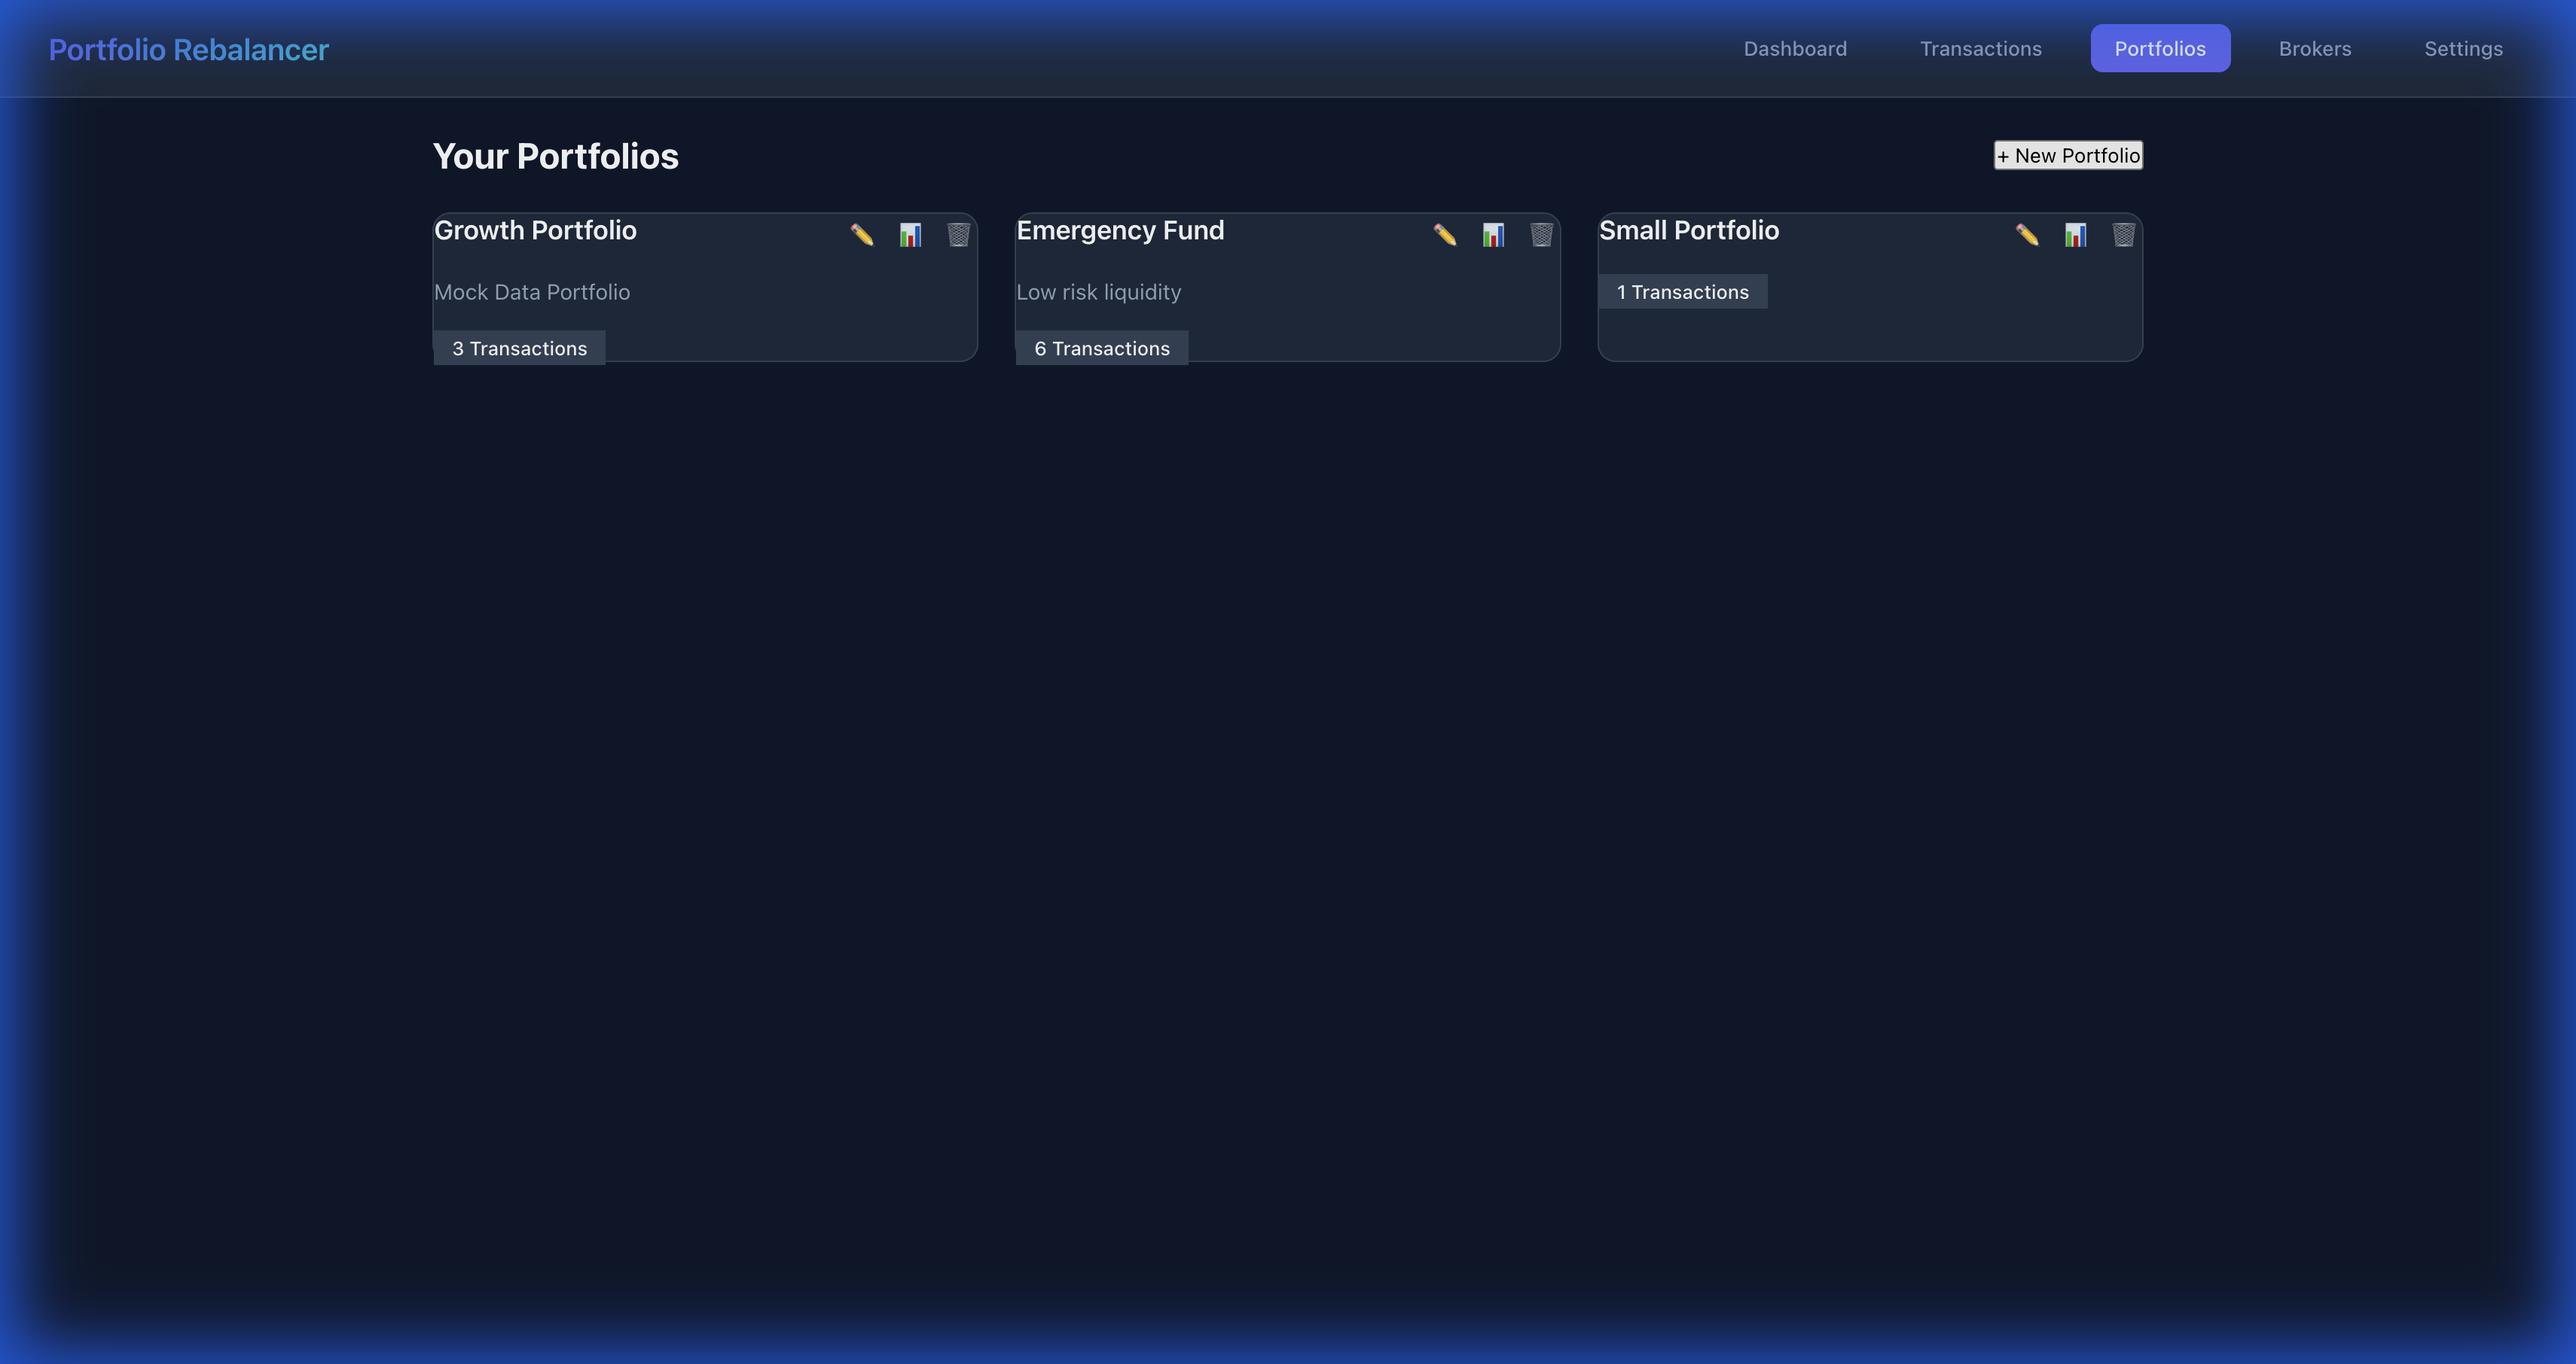
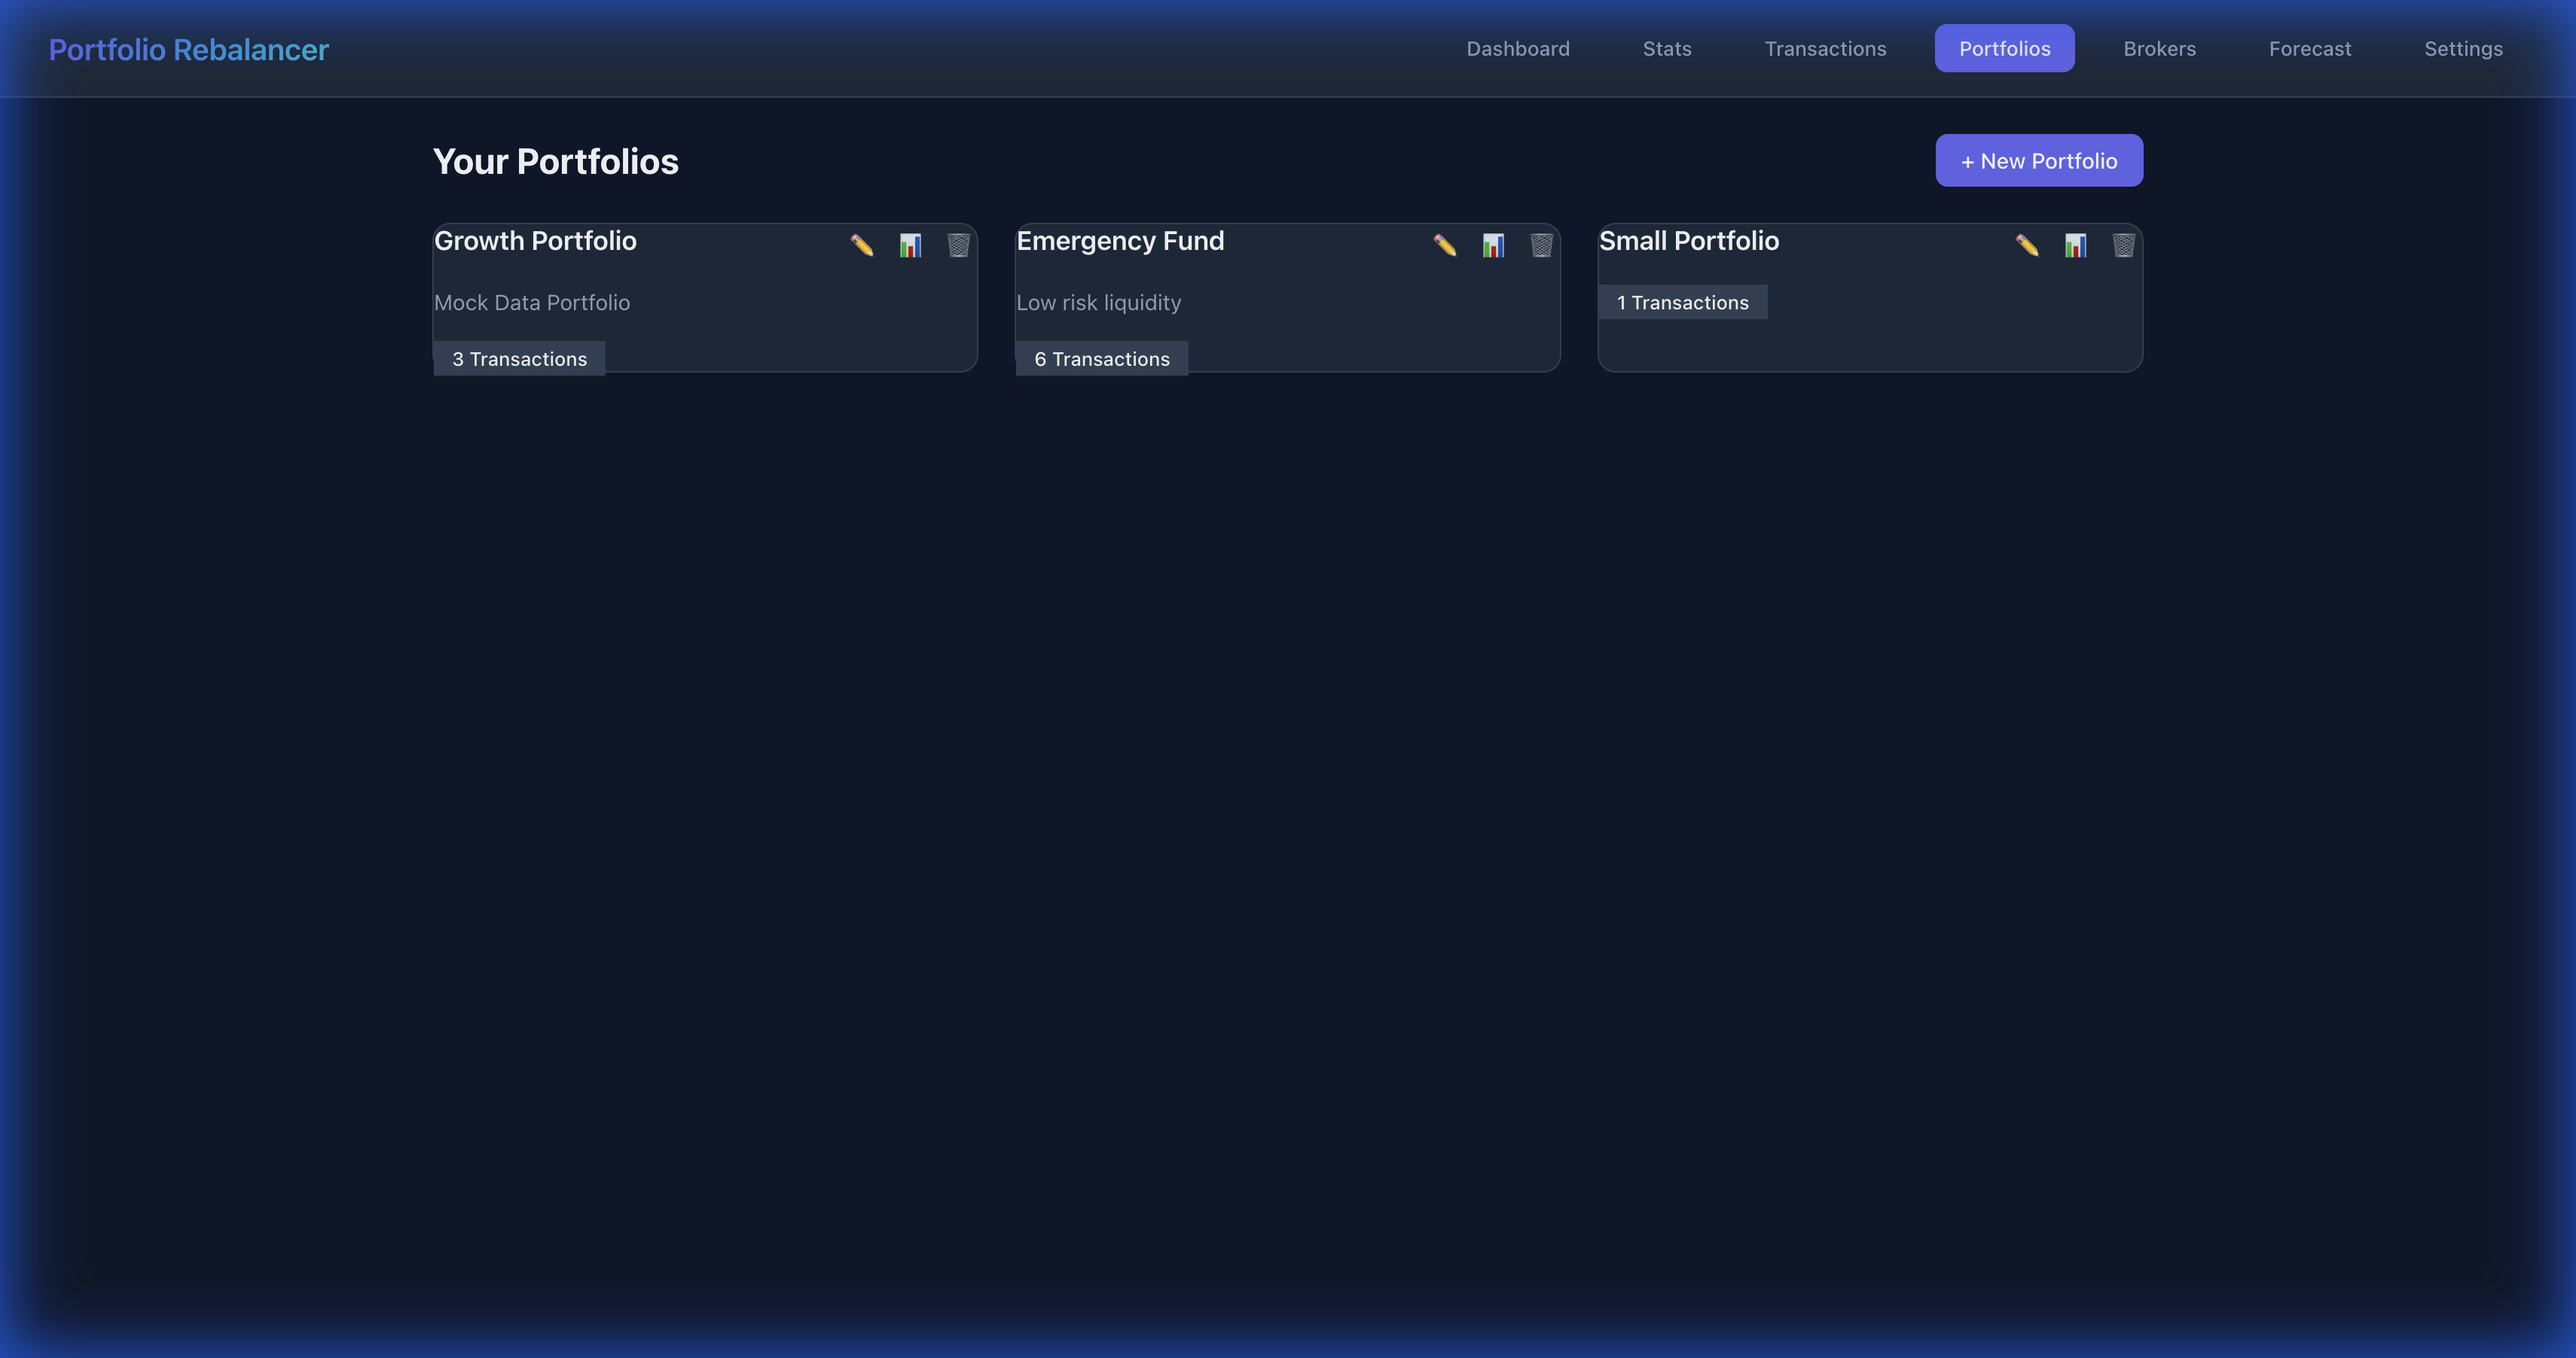
updated readme

diff --git a/README.md b/README.md
@@ -64,6 +64,9 @@ Portfolio Rebalancer is a React+Express application designed to help investors t
     -   **Premium UI**: Optimized spacing, hidden axes, and centered labels.
 - **Unified Architecture**: Single Express server handling both API requests and serving the Vite frontend.
 - **Custom Labels**: Assign custom display names to assets.
+- **Data Management**:
+    - **Backup & Restore**: Export your entire portfolio data to a JSON file and restore it at any time (Settings page).
+    - **Safe Recovery**: Confirmation prompts to prevent accidental data overwrites during restore.
 
 ## Application Overview
 
@@ -102,17 +105,23 @@ Project your financial future based on current assets, savings, and expenses.
     ![Forecast Failed](screenshots/forecast_failed.png)
 - **Simulation**: Visualize net worth growth and liquidity usage over time.
 
+### Statistics & Analysis
+Deep dive into your portfolio's composition and macro-economic exposure.
+![Stats Allocations](screenshots/stats_allocations.png)
+- **Portfolio Pyramid**: Visual distribution of assets by risk/goal categories (Liquidity > Protection > Growth).
+- **Macro Allocation**: Aggregate view of exposure to Stocks, Bonds, Crypto, etc. versus your defined targets.
+
 ### Portfolio Management
 Organize your investments into distinct portfolios (e.g., "Retirement", "Risky Bets").
 ![Portfolios View](screenshots/portfolios_page.png)
 - **Isolation**: Each portfolio tracks its own contribution to your wealth.
 - **Goals**: Set different strategies for different portfolios.
-![Portfolio Targets](screenshots/portfolio_targets.png)
 
 ### Settings & Configuration
-Manage target allocations and external data sources.
+Manage target allocations, external data sources, and data safety.
 ![Settings Page](screenshots/settings_page.png)
 - **Asset Definitions**: Define asset classes (Stock, Bond, etc.) for each ISIN.
+- **Data Management**: Backup your entire database to JSON or restore from a previous backup.
 - **Mock Data**: Quickly load sample data to test the application features.
 
 ## Tech Stack
